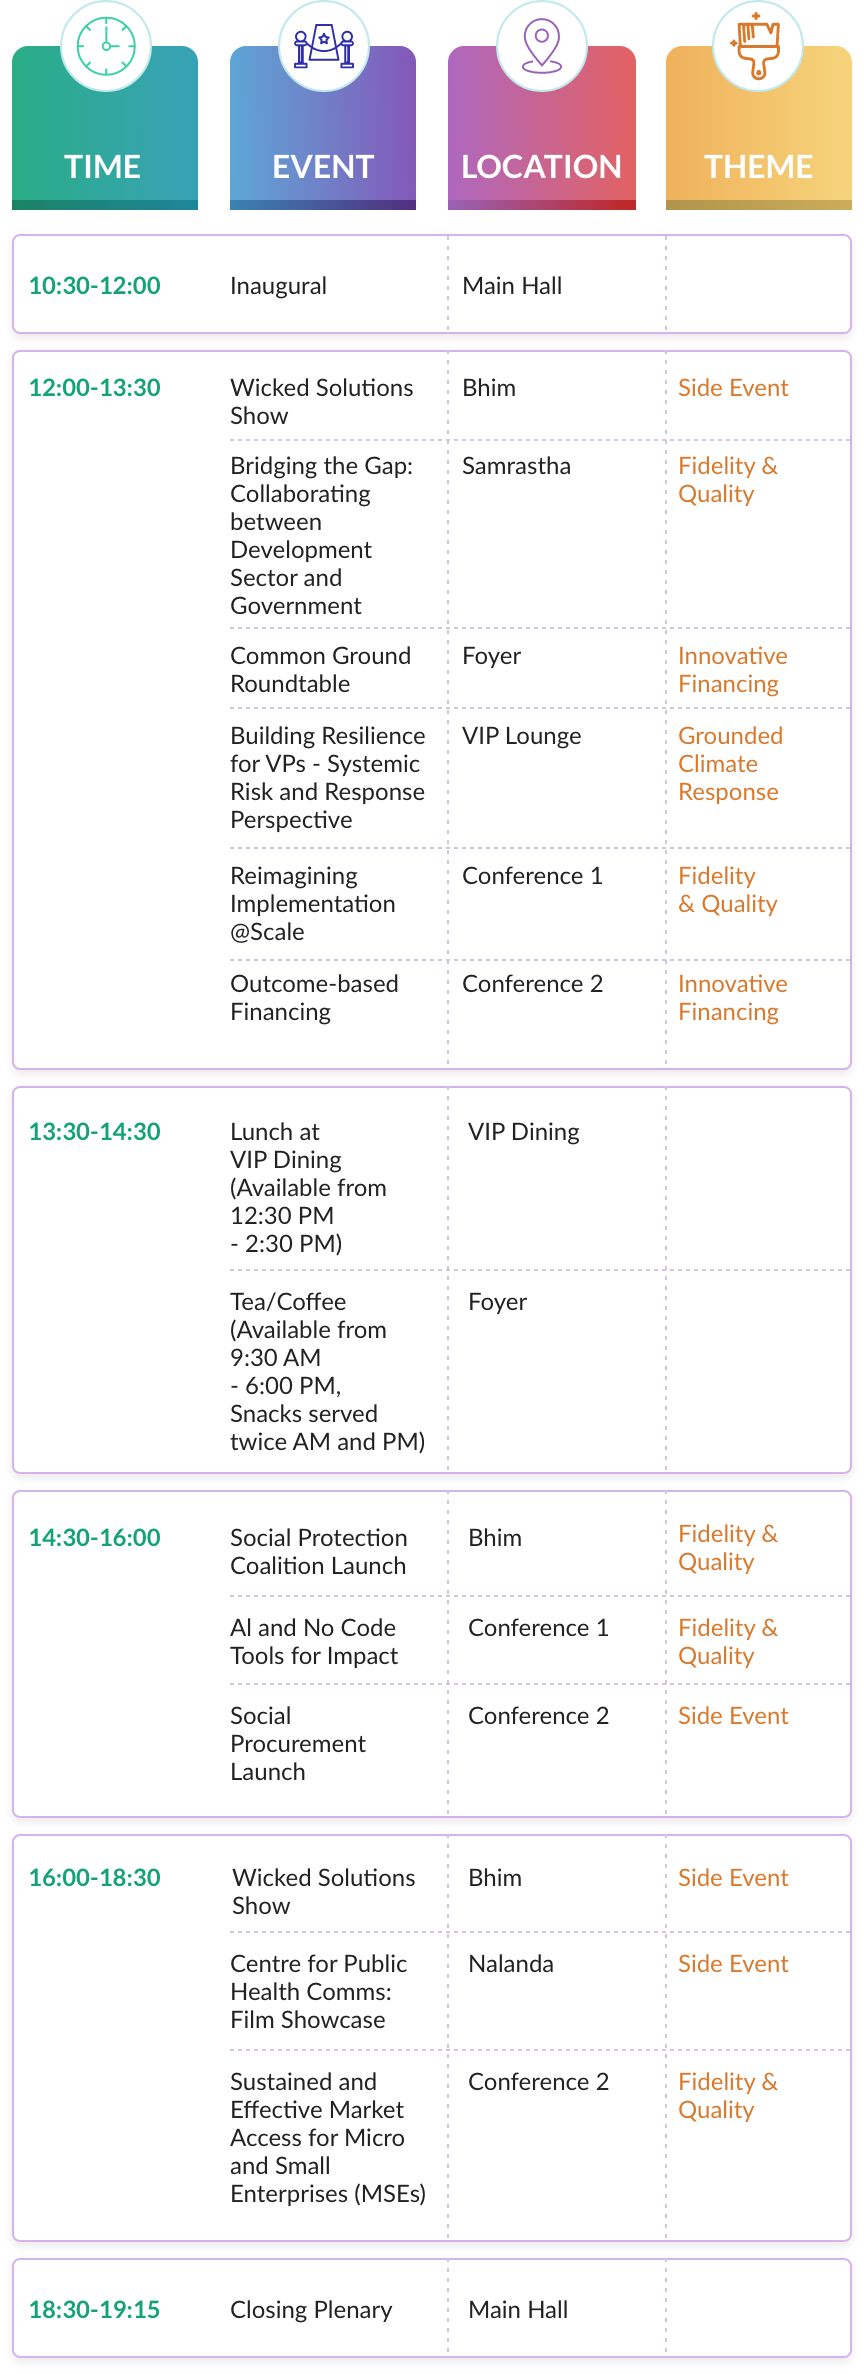
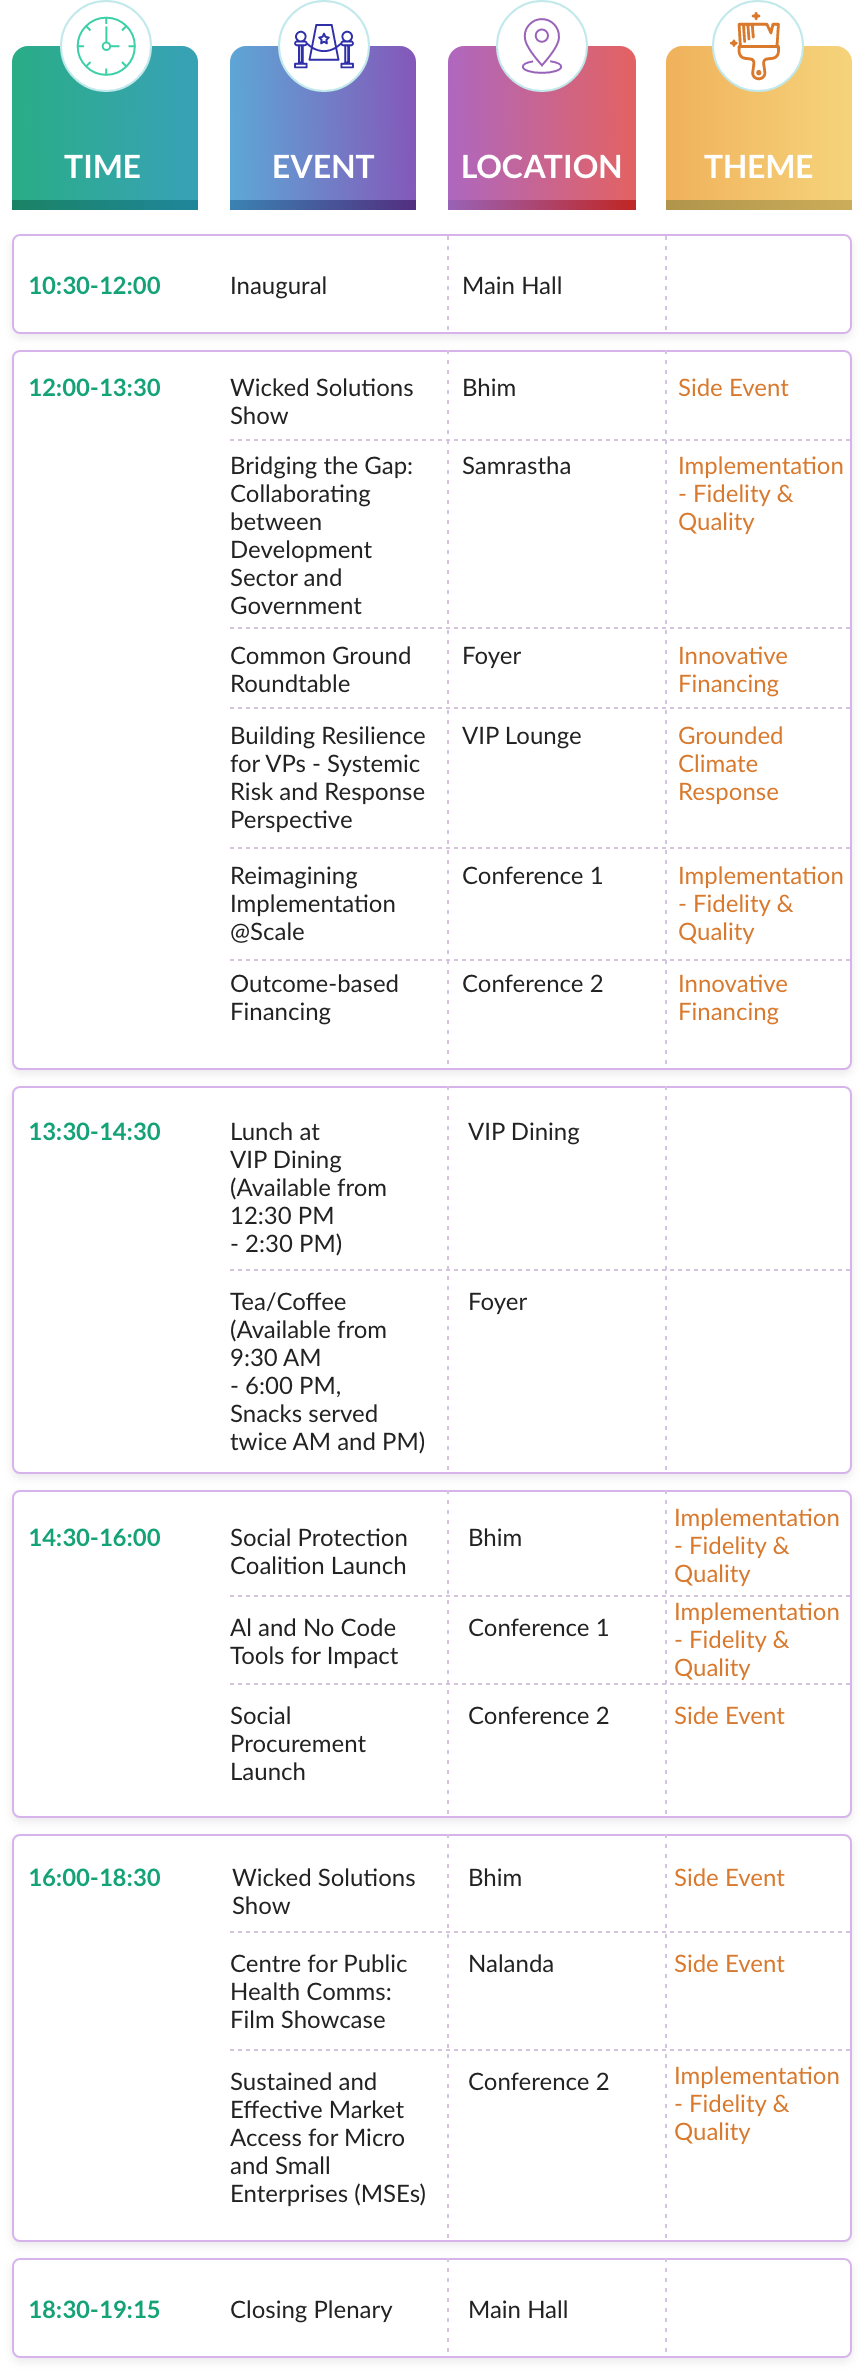
spelling again

diff --git a/csi-2024-agenda.html b/csi-2024-agenda.html
@@ -16,7 +16,7 @@
 
     <style>
         .fs-5 {
-            font-size: 13px !important;
+            font-size: 10px !important;
         }
 
         .fs-4 {
@@ -263,7 +263,7 @@
                                 <p class="fs-5 txt-agenda-orange mb-0">Side Event</p>
                             </div>
                             <div class="p-4 py-3 border-bottom-dotted">
-                                <p class="fs-5 txt-agenda-orange mb-0">Fidelity & Quality</p>
+                                <p class="fs-5 txt-agenda-orange mb-0">Implementation - Fidelity & Quality</p>
                             </div>
                             <div class="p-4 py-3 border-bottom-dotted">
                                 <p class="fs-5 txt-agenda-orange mb-0">Innovative Financing</p>
@@ -272,7 +272,7 @@
                                 <p class="fs-5 txt-agenda-orange mb-0">Grounded Climate Response</p>
                             </div>
                             <div class="p-4 py-3 border-bottom-dotted">
-                                <p class="fs-5 txt-agenda-orange mb-0">Fidelity & Quality</p>
+                                <p class="fs-5 txt-agenda-orange mb-0">Implementation - Fidelity & Quality</p>
                             </div>
                             <div class="p-4 py-3">
                                 <p class="fs-5 txt-agenda-orange mb-0">Innovative Financing</p>
@@ -344,10 +344,10 @@
                         </div>
                         <div class="col-2 txt-agenda-orange">
                             <div class="p-4 py-3 border-bottom-dotted">
-                                <p class="fs-5  mb-0">Fidelity & Quality</p>
+                                <p class="fs-5  mb-0">Implementation - Fidelity & Quality</p>
                             </div>
                             <div class="p-4 py-3 border-bottom-dotted">
-                                <p class="fs-5  mb-0">Fidelity & Quality</p>
+                                <p class="fs-5  mb-0">Implementation - Fidelity & Quality</p>
                             </div>
                             <div class="p-4 py-3">
                                 <p class="fs-5  mb-0">Side Event</p>
@@ -394,7 +394,7 @@
                                 <p class="fs-5  mb-0">Side Event</p>
                             </div>
                             <div class="p-4 py-3">
-                                <p class="fs-5  mb-0">Fidelity & Quality</p>
+                                <p class="fs-5  mb-0">Implementation - Fidelity & Quality</p>
                             </div>
 
                         </div>
@@ -548,7 +548,7 @@
                                 <p class="fs-5 txt-agenda-orange mb-0">Innovative Financing</p>
                             </div>
                             <div class="p-4 py-3 border-bottom-dotted">
-                                <p class="fs-5 txt-agenda-orange mb-0">Fidelity & Quality</p>
+                                <p class="fs-5 txt-agenda-orange mb-0">Implementation - Fidelity & Quality</p>
                             </div>
                             <div class="p-4 py-3">
                                 <p class="fs-5 txt-agenda-orange mb-0">Side Event</p>
@@ -631,7 +631,7 @@
                                 <p class="fs-5 txt-agenda-orange mb-0">Grounded Climate Response</p>
                             </div>
                             <div class="p-4 py-3 border-bottom-dotted">
-                                <p class="fs-5 txt-agenda-orange mb-0">Fidelity & Quality</p>
+                                <p class="fs-5 txt-agenda-orange mb-0">Implementation - Fidelity & Quality</p>
                             </div>
                             <div class="p-4 py-3 border-bottom-dotted">
                                 <p class="fs-5 txt-agenda-orange mb-0">Grounded Climate Response</p>
@@ -680,7 +680,7 @@
                                 <p class="fs-5 txt-agenda-orange mb-0">Grounded Climate Response</p>
                             </div>
                             <div class="p-4 py-3 border-bottom-dotted">
-                                <p class="fs-5 txt-agenda-orange mb-0">Fidelity & Quality</p>
+                                <p class="fs-5 txt-agenda-orange mb-0">Implementation - Fidelity & Quality</p>
                             </div>
                             <div class="p-4 py-3 border-bottom-dotted">
                                 <p class="fs-5 txt-agenda-orange mb-0">Grounded Climate Response</p>
